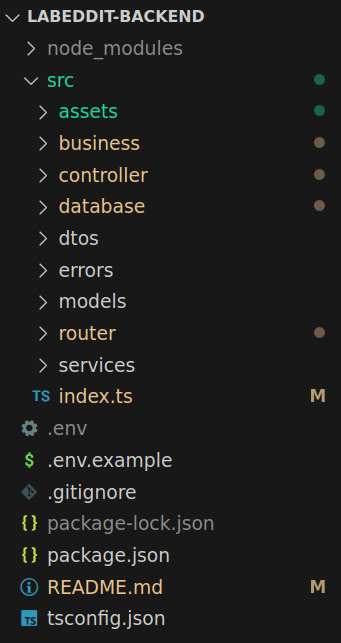
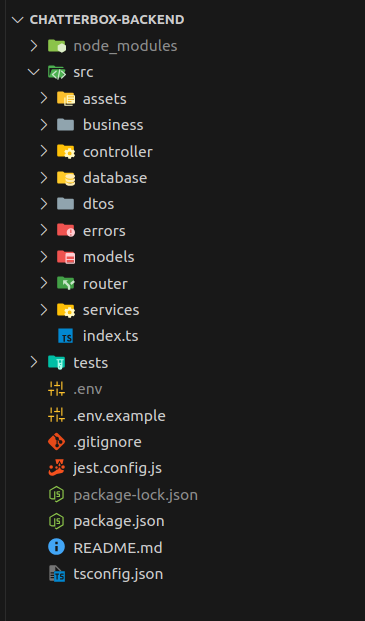
Atualização no README.md

diff --git a/README.md b/README.md
@@ -1,7 +1,7 @@
 # Chatterbox
 
 Este é o repositório do backend da aplicação Chatterbox. Trata-se de uma rede social no estilo Reddit, onde os usuários podem se cadastrar, postar textos, comentar posts de outros usuários, além de poder dar like e dislike nesses posts. 
-<!-- O repositório do front-end pode ser encontrado no seguinte link: https://github.com/carolcampos22/chatterbox-frontend. O site da aplicação pode ser acessado [neste link](#). -->
+O repositório do front-end pode ser encontrado no seguinte link: https://github.com/carolcampos22/chatterbox-frontend. <!-- O site da aplicação pode ser acessado [neste link](#). -->
  
 
 ## Requisitos
@@ -26,12 +26,12 @@ Além dessas tecnologias, foram utilizados conceitos de arquitetura em camadas e
 1. Clone o repositório:
 
    ```bash
-   git clone https://github.com/carolcampos22/labeddit-backend.git
+   git clone https://github.com/carolcampos22/chatterbox.git
    ```
 
 2. Acesse o diretório do projeto:
     ```bash
-        cd labeddit-backend
+        cd chatterbox-backend
 
     ```
 
@@ -59,7 +59,7 @@ Agora, o servidor estará rodando em http://localhost:3000. Você pode utilizar 
 <!-- ## Documentação da API
 A documentação da API está disponível [aqui](#). -->
 
-## Estruturação das pastas do projeto
+<!-- ## Estruturação das pastas do projeto
 
 ![](./src/assets/estrutura-de-pastas.png)
 
@@ -75,7 +75,7 @@ Endpoint para visualização de todos os posts
 
 #### Get comments
 Endpoint para visualização dos comentários de um post, ao passar o ID desse post.
-![](./src/assets/getcomments.png)
+![](./src/assets/getcomments.png) -->
 
 Todos os endpoints são protegidos, ou seja, é necessário um token para criação e visualização de posts e comentários. O token é gerado ao cadastrar um novo usuário (signup) ou fazer login no sistema.
 
